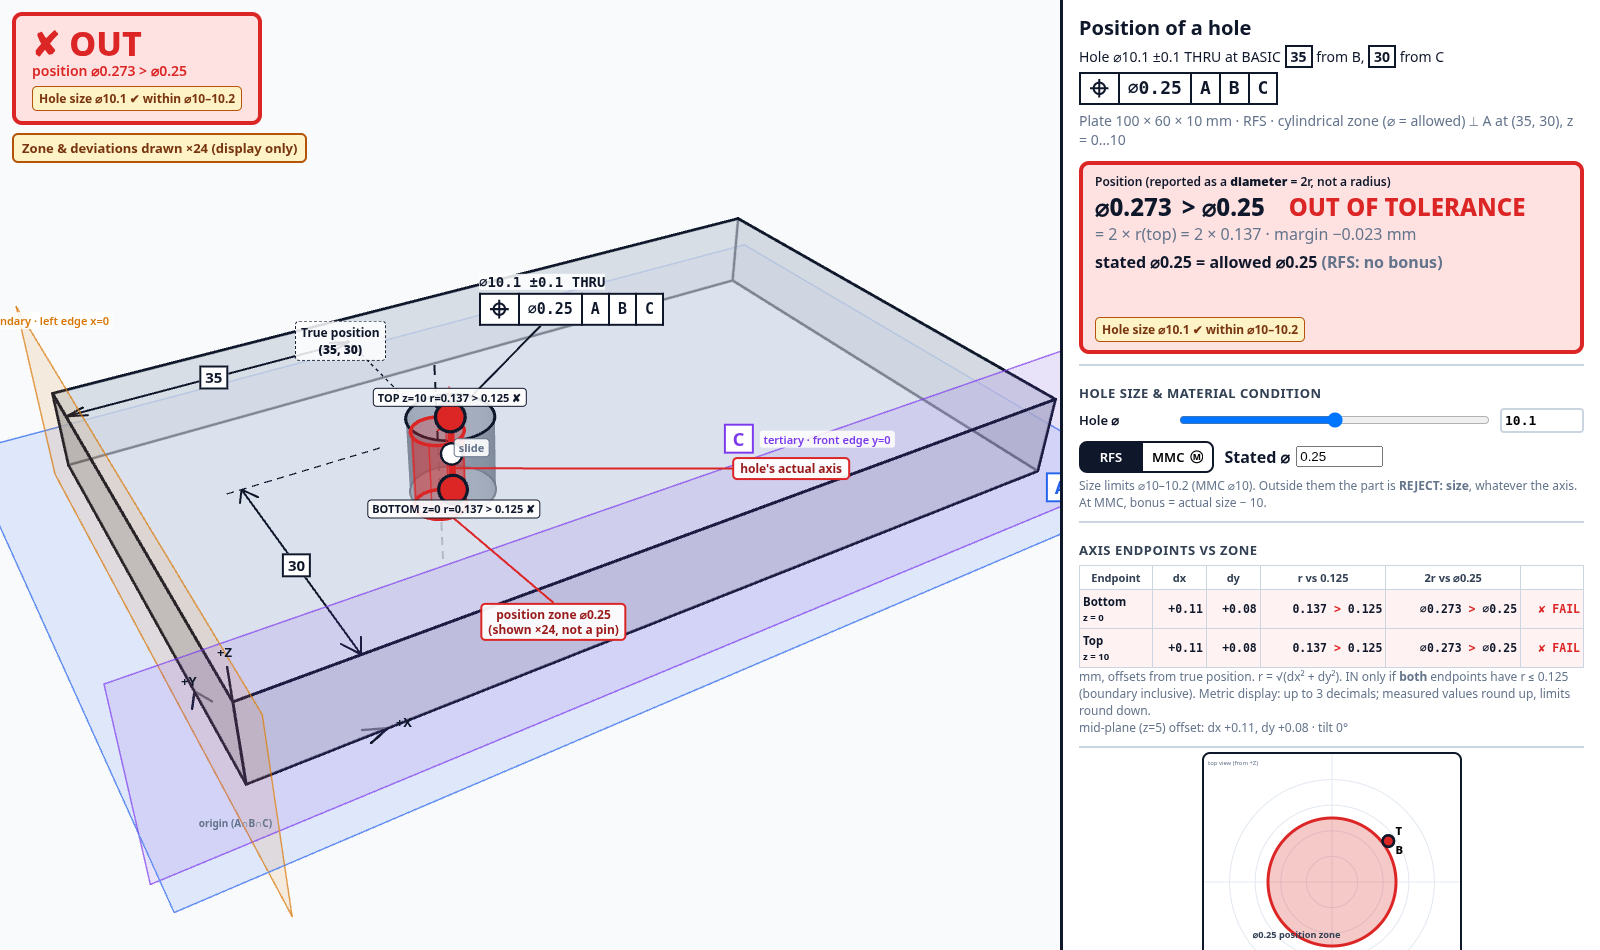
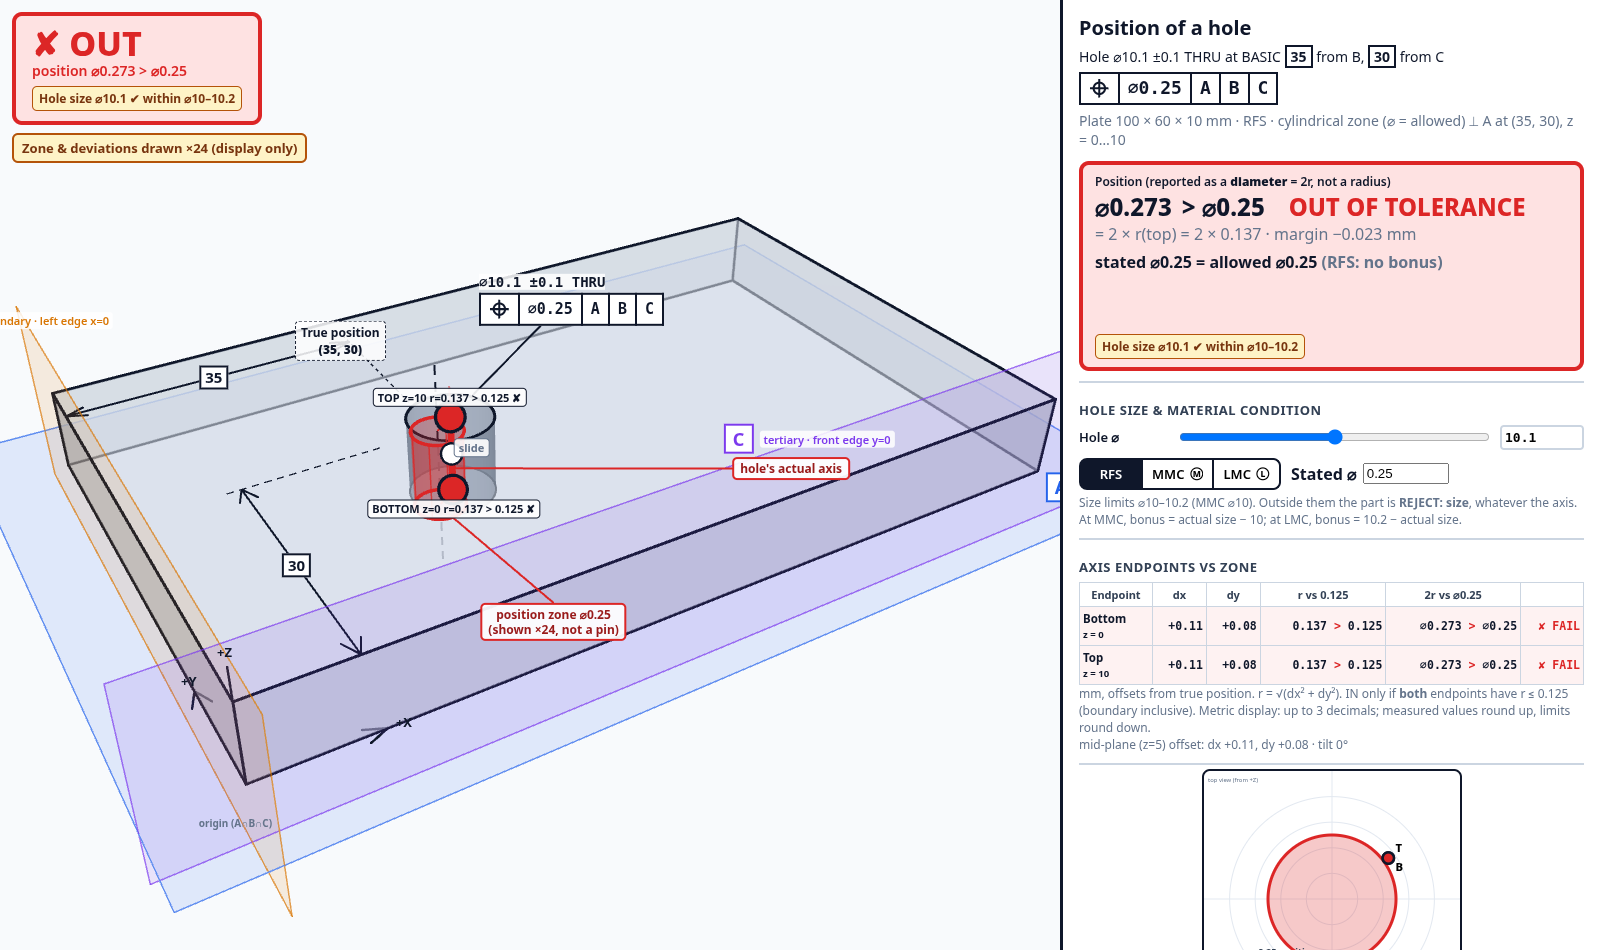
LMC: RFS|MMC|LMC switch, LMC bonus/VC, teaching line, spot-check tests and browser checks

Changed region(s): [[0.6562, 0.3358, 1.0, 0.8242], [0.7812, 0.8547, 0.875, 1.0]]

diff --git a/src/ui.js b/src/ui.js
@@ -2,7 +2,7 @@
 // 2D top-down "zone inset" (also draggable). No Three.js dependency.
 import { SPEC, VIEW, PRESETS } from './config.js';
 import { fmt, fmtLimit, fmtUp, fmtSigned, fmtAgainst, fmtMargin } from './format.js';
-import { fcfHTML, fmtNote, MMC_SYM } from './fcf.js';
+import { fcfHTML, fmtNote, MMC_SYM, LMC_SYM, modSym } from './fcf.js';
 
 const SIZE_LIMITS = `⌀${fmt(SPEC.hole.mmc)}–${fmt(SPEC.hole.lmc)}`;
 /** Size note shown next to every verdict (same length IN / REJECT, so no layout jump). */
@@ -11,6 +11,8 @@ export const sizeNote = (size) => size.sizeOk
   : `Hole size ⌀${fmt(size.actualSize)} ✘ outside ${SIZE_LIMITS}`;
 export const STATUS = { IN: 'IN TOLERANCE', OUT: 'OUT OF TOLERANCE', REJECT_SIZE: 'REJECT: size', INVALID_TOL: 'INVALID: ⌀0 at RFS' };
 /** Shown when a stated ⌀0 is refused at RFS (Sally). */
+/** Teaching line shown (small) at MMC and LMC. */
+export const TEACH = 'MMC protects assembly, LMC protects material.';
 export const ZERO_REASON = '⌀0 is only meaningful at MMC, where bonus supplies the tolerance.';
 const BADGE = { IN: '✔ IN', OUT: '✘ OUT', REJECT_SIZE: '✘ REJECT: size', INVALID_TOL: '✘ INVALID' };
 const SVGNS = 'http://www.w3.org/2000/svg';
@@ -48,7 +50,7 @@ export function createUI(root, { onChange, onPreset, onMagnification, onXray, on
   const msg = (t) => { $('#mc-msg').textContent = t; };
   $('#r-size').addEventListener('input', (e) => onSize(Number(e.target.value)));
   $('#n-size').addEventListener('change', (e) => { const v = Number(e.target.value); if (Number.isFinite(v)) onSize(v); });
-  for (const m of ['RFS', 'MMC']) {
+  for (const m of ['RFS', 'MMC', 'LMC']) {
     $(`#mod-${m.toLowerCase()}`).addEventListener('click', () => {
       if (onModifier(m) === false) msg(ZERO_REASON);
       else msg('');
@@ -79,22 +81,24 @@ export function createUI(root, { onChange, onPreset, onMagnification, onXray, on
     if (document.activeElement !== $('#n-size')) $('#n-size').value = fmt(state.size);
     lastStated = fmt(state.stated);
     if (document.activeElement !== $('#n-stated')) $('#n-stated').value = lastStated;
-    for (const m of ['RFS', 'MMC']) $(`#mod-${m.toLowerCase()}`).setAttribute('aria-pressed', String(state.modifier === m));
+    for (const m of ['RFS', 'MMC', 'LMC']) $(`#mod-${m.toLowerCase()}`).setAttribute('aria-pressed', String(state.modifier === m));
     const TOL = res.tolerance; // allowed (stated + bonus)
     const R = res.radius;
     const sz = res.size;
     $('#spec-fcf').innerHTML = fcfHTML(state, 'fcf big');
     $('#spec-zone').textContent = `${state.modifier} · cylindrical zone (⌀ = allowed)`;
     const rej = res.verdict === 'REJECT_SIZE';
-    $('#tol-line').innerHTML = state.modifier === 'MMC' && rej
+    const bon = state.modifier !== 'RFS';
+    $('#tol-line').innerHTML = bon && rej
       ? `stated ⌀${fmt(sz.stated)} + bonus n/a <span class="muted">(size rejected)</span>`
-      : state.modifier === 'MMC'
+      : bon
       ? `stated ⌀${fmt(sz.stated)} + bonus ⌀${fmtLimit(sz.bonus)} = allowed ⌀${fmtLimit(sz.allowed)}`
       : `stated ⌀${fmt(sz.stated)} = allowed ⌀${fmtLimit(sz.allowed)} <span class="muted">(RFS: no bonus)</span>`;
-    $('#bonus-detail').textContent = state.modifier === 'MMC' ? (rej ? `no bonus: hole ⌀${fmt(sz.actualSize)} is outside ${SIZE_LIMITS}` : `bonus = actual ⌀${fmt(sz.actualSize)} − MMC ⌀${fmt(SPEC.hole.mmc)}`) : '\u00a0'; // keep the line's height at RFS (no jump)
-    $('#vc-line').textContent = state.modifier === 'MMC' ? `virtual condition ⌀${fmtNote(sz.virtualCondition)}` : '\u00a0';
-    $('#vc-line').style.visibility = state.modifier === 'MMC' ? 'visible' : 'hidden';
-    $('#bonus-detail').style.visibility = state.modifier === 'MMC' ? 'visible' : 'hidden';
+    $('#bonus-detail').textContent = bon ? (rej ? `no bonus: hole ⌀${fmt(sz.actualSize)} is outside ${SIZE_LIMITS}` : state.modifier === 'LMC' ? `bonus = LMC ⌀${fmt(SPEC.hole.lmc)} − actual ⌀${fmt(sz.actualSize)}` : `bonus = actual ⌀${fmt(sz.actualSize)} − MMC ⌀${fmt(SPEC.hole.mmc)}`) : '\u00a0'; // keep the line's height at RFS (no jump)
+    $('#vc-line').textContent = bon ? `${state.modifier === 'LMC' ? 'LMC ' : ''}virtual condition ⌀${fmtNote(sz.virtualCondition)}` : '\u00a0';
+    $('#vc-line').style.visibility = bon ? 'visible' : 'hidden';
+    $('#bonus-detail').style.visibility = bon ? 'visible' : 'hidden';
+    $('#teach-line').style.visibility = bon ? 'visible' : 'hidden';
     $('#th-r').textContent = `r vs ${fmtLimit(R)}`;
     $('#th-d').textContent = `2r vs ⌀${fmtLimit(TOL)}`;
     $('#rule-note').innerHTML = `mm, offsets from true position. r = √(dx² + dy²). IN only if <b>both</b> endpoints have r ≤ ${fmtLimit(R)} (boundary inclusive). Metric display: up to 3 decimals; measured values round up, limits round down.`;
@@ -129,8 +133,8 @@ export function createUI(root, { onChange, onPreset, onMagnification, onXray, on
     const badge = document.getElementById('status-badge');
     badge.className = `status-badge ${res.accept ? 'pass' : 'fail'}`;
     const small = res.verdict === 'REJECT_SIZE' ? `hole ⌀${fmt(sz.actualSize)} outside ${SIZE_LIMITS}`
-      : res.verdict === 'INVALID_TOL' ? 'stated ⌀0 is only valid at MMC'
-      : `position ⌀${posShown} ${res.inTolerance ? '≤' : '>'} ⌀${fmtLimit(TOL)}${state.modifier === 'MMC' ? ` ${MMC_SYM}` : ''}`;
+      : res.verdict === 'INVALID_TOL' ? 'stated ⌀0 needs MMC or LMC'
+      : `position ⌀${posShown} ${res.inTolerance ? '≤' : '>'} ⌀${fmtLimit(TOL)}${bon ? ` ${modSym(state.modifier)}` : ''}`;
     badge.innerHTML = `${BADGE[res.verdict]}<small>${small}</small><span class="size-note">${sizeNote(sz)}</span>`;
     document.getElementById('mag-badge').textContent = `Zone & deviations drawn ×${state.magnification} (display only)`;
     inset.render(state, res);
@@ -253,6 +257,7 @@ function template() {
     <div id="tol-line" class="tol-line"></div>
     <div id="bonus-detail" class="muted small"></div>
     <div id="vc-line" class="vc-line"></div>
+    <div id="teach-line" class="muted small teach">${TEACH}</div>
     <div class="size-note"></div>
   </section>
 
@@ -260,11 +265,11 @@ function template() {
     <h2>Hole size &amp; material condition</h2>
     <label class="ctl"><span>Hole ⌀</span><input type="range" id="r-size" min="${S.min}" max="${S.max}" step="${S.step}"/><input type="number" id="n-size" min="${S.min}" max="${S.max}" step="0.001"/></label>
     <div class="mc-row">
-      <span class="seg" role="group" aria-label="Material condition"><button id="mod-rfs" type="button" aria-pressed="true">RFS</button><button id="mod-mmc" type="button" aria-pressed="false">MMC ${MMC_SYM}</button></span>
+      <span class="seg" role="group" aria-label="Material condition"><button id="mod-rfs" type="button" aria-pressed="true">RFS</button><button id="mod-mmc" type="button" aria-pressed="false">MMC ${MMC_SYM}</button><button id="mod-lmc" type="button" aria-pressed="false">LMC ${LMC_SYM}</button></span>
       <label class="stated"><span>Stated ⌀</span><input type="number" id="n-stated" min="0" max="1" step="0.001"/></label>
     </div>
     <div id="mc-msg" class="mc-msg" role="status"></div>
-    <div class="muted small">Size limits ${SIZE_LIMITS} (MMC ⌀${fmt(SPEC.hole.mmc)}). Outside them the part is <b>REJECT: size</b>, whatever the axis. At MMC, bonus = actual size − ${fmt(SPEC.hole.mmc)}.</div>
+    <div class="muted small">Size limits ${SIZE_LIMITS} (MMC ⌀${fmt(SPEC.hole.mmc)}). Outside them the part is <b>REJECT: size</b>, whatever the axis. At MMC, bonus = actual size − ${fmt(SPEC.hole.mmc)}; at LMC, bonus = ${fmt(SPEC.hole.lmc)} − actual size.</div>
   </section>
 
   <section>

diff --git a/tests/lmc.test.js b/tests/lmc.test.js
@@ -1,0 +1,75 @@
+import { test } from 'node:test';
+import assert from 'node:assert/strict';
+import { allowedTolerance, evaluatePart } from '../src/tolerance.js';
+import { SPEC } from '../src/config.js';
+import { fcfHTML } from '../src/fcf.js';
+import { TEACH } from '../src/ui.js';
+
+const H = SPEC.hole;
+const tol = (actualSize, stated = 0.25) => allowedTolerance({ stated, modifier: 'LMC', actualSize, mmc: H.mmc, lmc: H.lmc });
+const TP = { x: 35, y: 30 };
+const part = (actualSize, dx, stated = 0.25) => evaluatePart({
+  truePosition: TP, bottom: { x: TP.x + dx, y: TP.y }, top: { x: TP.x + dx, y: TP.y }, thickness: 10,
+  stated, modifier: 'LMC', actualSize, mmc: H.mmc, lmc: H.lmc,
+});
+
+test('LMC edges: 10.20 -> bonus 0, allowed 0.25; 10.00 -> bonus 0.20, allowed 0.45', () => {
+  assert.deepEqual([tol(10.2).bonus, tol(10.2).allowed], [0, 0.25]);
+  assert.deepEqual([tol(10.0).bonus, tol(10.0).allowed], [0.2, 0.45]);
+  assert.deepEqual([tol(10.05).bonus, tol(10.05).allowed], [0.15, 0.4]);
+});
+
+test('LMC bonus rounds down (never overstated)', () => {
+  assert.equal(tol(10.12345).bonus, 0.0765); // 0.07655 -> floor
+  assert.ok(tol(10.12345).bonus <= 10.2 - 10.12345);
+});
+
+test('LMC virtual condition = 10.20 + stated, independent of size', () => {
+  assert.equal(tol(10.05).virtualCondition, 10.45);
+  assert.equal(tol(10.19).virtualCondition, 10.45);
+  assert.equal(tol(10.05, 0.1).virtualCondition, 10.3);
+  assert.equal(tol(10.05, 0).virtualCondition, 10.2);
+});
+
+test('LMC: size rejects like MMC, bonus n/a', () => {
+  for (const s of [9.95, 9.9999, 10.2001, 10.25]) {
+    assert.equal(tol(s).bonus, null, String(s));
+    assert.equal(part(s, 0).verdict, 'REJECT_SIZE');
+  }
+});
+
+test('LMC: stated ⌀0 is valid (bonus supplies tolerance); at 10.20 nothing is allowed', () => {
+  assert.equal(tol(10.1, 0).statedValid, true);
+  assert.equal(tol(10.1, 0).allowed, 0.1);
+  assert.equal(part(10.1, 0.05, 0).verdict, 'IN');
+  assert.equal(part(10.1, 0.051, 0).verdict, 'OUT');
+  assert.equal(part(10.2, 0, 0).verdict, 'IN');
+  assert.equal(part(10.2, 0.001, 0).verdict, 'OUT');
+});
+
+test('LMC in/out boundary at 10.05 (allowed 0.40 -> r 0.20)', () => {
+  assert.equal(part(10.05, 0.2).verdict, 'IN');
+  assert.equal(part(10.05, 0.2001).verdict, 'OUT');
+});
+
+test('FCF shows circled L at LMC, M at MMC, nothing at RFS; teaching line text', () => {
+  assert.match(fcfHTML({ stated: 0.25, modifier: 'LMC' }), /aria-label="LMC"[^]*>L<\/text>/);
+  assert.match(fcfHTML({ stated: 0.25, modifier: 'MMC' }), />M<\/text>/);
+  assert.doesNotMatch(fcfHTML({ stated: 0.25, modifier: 'RFS' }), /<svg class="mmcsym"/);
+  assert.equal(TEACH, 'MMC protects assembly, LMC protects material.');
+});
+
+test("Sally's spot-check table: allowed for RFS / MMC / LMC", () => {
+  const T = { 10.0: [0.25, 0.25, 0.45], 10.1: [0.25, 0.35, 0.35], 10.2: [0.25, 0.45, 0.25] };
+  for (const [s, exp] of Object.entries(T)) {
+    const got = ['RFS', 'MMC', 'LMC'].map((m) => allowedTolerance({ stated: 0.25, modifier: m, actualSize: Number(s), mmc: H.mmc, lmc: H.lmc }).allowed);
+    assert.deepEqual(got, exp, `⌀${s}`);
+  }
+});
+
+test('default VC labels: MMC ⌀9.75, LMC ⌀10.45, unchanged across sizes', () => {
+  for (const s of [10.0, 10.05, 10.1, 10.15, 10.2]) {
+    assert.equal(allowedTolerance({ stated: 0.25, modifier: 'MMC', actualSize: s, mmc: H.mmc, lmc: H.lmc }).virtualCondition, 9.75);
+    assert.equal(tol(s).virtualCondition, 10.45);
+  }
+});

diff --git a/src/tolerance.js b/src/tolerance.js
@@ -118,13 +118,15 @@ const roundUnits = (v) => Math.round(v * UNITS) / UNITS;
  *   comes from bonus).
  * - Virtual condition (hole, MMC) = mmc − stated. It depends only on the
  *   stated tolerance, never on the actual size.
+ * - LMC: bonus = lmc − actualSize (same clamps), allowed = stated + bonus.
+ *   ⌀0 valid as at MMC. LMC virtual condition (hole) = lmc + stated.
  * Bonus is floored to 0.0001 mm (conservative: never overstated).
  * On a size reject the bonus is not applicable: bonus = null and
  * allowed = stated (shown for information only; the verdict is REJECT: size).
  *
  * @param {object} p
  * @param {number} p.stated     stated position tolerance, diameter (mm), >= 0
- * @param {'RFS'|'MMC'} p.modifier
+ * @param {'RFS'|'MMC'|'LMC'} p.modifier
  * @param {number} p.actualSize actual hole diameter (mm)
  * @param {number} p.mmc        maximum material size of the hole = its smallest size (mm)
  * @param {number} p.lmc        least material size = its largest size (mm)
@@ -133,10 +135,11 @@ export function allowedTolerance({ stated, modifier, actualSize, mmc, lmc }) {
   assertFinite({ stated, actualSize, mmc, lmc });
   if (stated < 0) throw new RangeError('stated tolerance must be >= 0');
   if (lmc < mmc) throw new RangeError('lmc must be >= mmc for a hole');
-  if (modifier !== 'RFS' && modifier !== 'MMC') throw new RangeError(`modifier must be 'RFS' or 'MMC' (got ${modifier})`);
+  if (!['RFS', 'MMC', 'LMC'].includes(modifier)) throw new RangeError(`modifier must be 'RFS', 'MMC' or 'LMC' (got ${modifier})`);
   const sizeOk = actualSize >= mmc - EPS && actualSize <= lmc + EPS;
-  const statedValid = modifier === 'MMC' || stated > EPS;
-  const bonus = modifier !== 'MMC' ? 0 : sizeOk ? floorUnits(Math.min(Math.max(actualSize - mmc, 0), lmc - mmc)) : null;
+  const statedValid = modifier !== 'RFS' || stated > EPS;
+  const raw = modifier === 'MMC' ? actualSize - mmc : lmc - actualSize;
+  const bonus = modifier === 'RFS' ? 0 : sizeOk ? floorUnits(Math.min(Math.max(raw, 0), lmc - mmc)) : null;
   const allowed = floorUnits(stated + (bonus ?? 0));
   return {
     modifier,
@@ -146,7 +149,7 @@ export function allowedTolerance({ stated, modifier, actualSize, mmc, lmc }) {
     statedValid,
     bonus,
     allowed,
-    virtualCondition: modifier === 'MMC' ? roundUnits(mmc - stated) : null,
+    virtualCondition: modifier === 'MMC' ? roundUnits(mmc - stated) : modifier === 'LMC' ? roundUnits(lmc + stated) : null,
   };
 }
 

diff --git a/styles.css b/styles.css
@@ -181,7 +181,9 @@ button:hover { background: #e2e8f0; }
 .mc .seg { display: inline-flex; }
 .mc .seg button { min-width: 64px; border-radius: 0; margin: 0; }
 .mc .seg button:first-child { border-radius: 8px 0 0 8px; }
-.mc .seg button:last-child { border-radius: 0 8px 8px 0; border-left: none; }
+.mc .seg button:last-child { border-radius: 0 8px 8px 0; }
+.mc .seg button + button { border-left: none; }
+.teach { font-style: italic; }
 .mc .seg button[aria-pressed="true"] { background: var(--ink); color: #fff; }
 .mc .stated { display: inline-flex; gap: 6px; align-items: center; font-weight: 700; }
 .mc .stated input { width: 6.5em; }
@@ -198,3 +200,6 @@ button:hover { background: #e2e8f0; }
 #pos-value, #pos-compare { display: inline-block; white-space: nowrap; font-variant-numeric: tabular-nums; }
 #pos-value::after { content: '⌀0.000'; display: block; height: 0; overflow: hidden; visibility: hidden; }
 #pos-compare::after { content: '> ⌀0.000'; display: block; height: 0; overflow: hidden; visibility: hidden; }
+@media (max-width: 700px), (max-height: 500px) {
+  .mc .seg button { min-height: 40px; min-width: 56px; }
+}

diff --git a/src/fcf.js b/src/fcf.js
@@ -11,7 +11,9 @@ const POS_SYM = '<svg class="possym" viewBox="-10 -10 20 20" aria-label="positio
 export const MMC_SYM = '<svg class="mmcsym" viewBox="-10 -10 20 20" role="img" aria-label="MMC"><circle r="8.6" fill="none" stroke="currentColor" stroke-width="1.7"/><text x="0" y="4.3" text-anchor="middle" font-size="12.5" font-weight="800" font-family="system-ui, Arial, sans-serif" fill="currentColor">M</text></svg>';
 
 /** <table class="fcf ..."> ⊕ | ⌀stated [Ⓜ] | A | B | C </table> */
+export const LMC_SYM = MMC_SYM.replace('aria-label="MMC"', 'aria-label="LMC"').replace('>M</text>', '>L</text>');
+export const modSym = (m) => (m === 'MMC' ? MMC_SYM : m === 'LMC' ? LMC_SYM : '');
 export function fcfHTML({ stated, modifier }, cls = 'fcf') {
-  const tol = `⌀${fmtNote(stated)}${modifier === 'MMC' ? MMC_SYM : ''}`;
+  const tol = `⌀${fmtNote(stated)}${modSym(modifier)}`;
   return `<table class="${cls}" data-modifier="${modifier}"><tr><td class="sym">${POS_SYM}</td><td class="tol">${tol}</td>${SPEC.position.datums.map((d) => `<td>${d}</td>`).join('')}</tr></table>`;
 }

diff --git a/src/viewer/scene.js b/src/viewer/scene.js
@@ -310,7 +310,7 @@ function buildStatic() {
 const FCF_ANCHOR = [TP.x + 30, TP.y + 20, H];
 let fcfLabel = null;
 function fcfDrawingHTML(state, result) {
-  const vc = state.modifier === 'MMC' ? `<div class="vc-note">virtual condition ⌀${fmtNote(result ? result.size.virtualCondition : SPEC.hole.mmc - state.stated)}</div>` : '';
+  const vc = state.modifier !== 'RFS' ? `<div class="vc-note">${state.modifier === 'LMC' ? 'LMC ' : ''}virtual condition ⌀${fmtNote(state.modifier === 'LMC' ? SPEC.hole.lmc + state.stated : SPEC.hole.mmc - state.stated)}</div>` : '';
   return `<div class="callout">⌀${SPEC.hole.nominal} ±${SPEC.hole.plusMinus} THRU</div>${fcfHTML(state)}${vc}`;
 }
 

diff --git a/src/main.js b/src/main.js
@@ -16,7 +16,7 @@ const state = {
   xray: true,
   drawing: !isPhone(), // phones start decluttered; "Show drawing" brings it back
   size: SPEC.hole.sizeSlider.default, // actual hole diameter (mm)
-  modifier: SPEC.position.modifier, // 'RFS' | 'MMC'
+  modifier: SPEC.position.modifier, // 'RFS' | 'MMC' | 'LMC'
   stated: SPEC.position.tolerance, // stated position tolerance ⌀ (mm), editable
 };
 const q3 = (v) => Math.round(v * 1e3) / 1e3; // UI inputs in 0.001 mm (metric display)

diff --git a/tests/mmc.test.js b/tests/mmc.test.js
@@ -103,7 +103,7 @@ test('conservative rounding: bonus floored to 0.0001, never overstated', () => {
 });
 
 test('bad inputs throw', () => {
-  assert.throws(() => tol(10.1, 'LMC'));
+  assert.throws(() => tol(10.1, 'LMB'));
   assert.throws(() => tol(10.1, 'MMC', -0.01));
   assert.throws(() => tol(NaN));
 });

diff --git a/ZONE.md b/ZONE.md
@@ -218,7 +218,7 @@ smallest hole), hole LMC ⌀10.20 (the largest).
 | 5 | Readout: "stated ⌀0.25 + bonus ⌀0.0xx = allowed ⌀0.xxx", with the bonus hidden at RFS | MMC: `stated ⌀0.25 + bonus ⌀0.15 = allowed ⌀0.4`. RFS: `stated ⌀0.25 = allowed ⌀0.25 (RFS: no bonus)`. Metric display, ≤ 3 decimals; bonus and allowed round down |
 | 6 | At MMC, a "virtual condition" label | **VC = 10.00 − stated**: ⌀9.75 at the default. It updates when the stated tolerance is edited and **never** changes with hole size. Shown in the panel and under the FCF in the drawing, at MMC only |
 | a | RFS/MMC toggle and an editable stated tolerance (default 0.25) | The MMC math uses the stated value. The Ⓜ symbol (drawn as an SVG, so no missing-glyph risk) appears in the panel FCF, the phone FCF chip and the 3D drawing FCF, at MMC only |
-| b | A stated ⌀0 is valid at MMC (all tolerance from bonus) and invalid at RFS | The math marks ⌀0 at RFS as `INVALID_TOL` (never accepted). The UI **blocks** it: typing 0 at RFS is refused and reverted, and switching to RFS while the stated value is 0 is refused. Both show the reason line *"⌀0 is only meaningful at MMC, where bonus supplies the tolerance."* |
+| b | A stated ⌀0 is valid at MMC (all tolerance from bonus) and invalid at RFS | The math marks ⌀0 at RFS as `INVALID_TOL` (never accepted). The UI **blocks** it: typing 0 at RFS is refused and reverted, and switching to RFS while the stated value is 0 is refused. Both show the reason line (Sally's exact wording; ⌀0 is equally valid at LMC, see §9) *"⌀0 is only meaningful at MMC, where bonus supplies the tolerance."* |
 | c | On REJECT: size, the readout shows "bonus n/a", with no bonus amount | `bonus = null` (n/a) when the size is outside the limits, so `allowed` falls back to the stated value (for information only). MMC readout: `stated ⌀0.25 + bonus n/a (size rejected)` |
 | d | On REJECT: size, the zone and handles are neutral gray, with the position number kept | The zone, actual axis and its label, TOP/BOTTOM handles, endpoint rows and inset all turn neutral gray (#64748b), with no ✔/✘. The reported position (rounded up) stays in the readout, marked "(info)", and the handle tags show r "(size rejected)" |
 
@@ -258,3 +258,29 @@ bonus that shows as 0.123 and an allowed tolerance that shows as 0.373
   no amount (rule c).
 - ✅ **Colours on REJECT: size** (Sally): neutral gray, with the position number
   kept for information (rule d).
+
+## 9. LMC (least material condition), Sally's rules
+
+The modifier control is a three-way segmented switch, **RFS | MMC | LMC**,
+defaulting to RFS. Each segment is at least 40 px on phones. The FCF (panel,
+phone chip and 3D drawing) shows Ⓛ at LMC. Tests: `tests/lmc.test.js`.
+
+| # | Rule | Implementation |
+|---|---|---|
+| 1 | bonus = 10.20 − actual size | `bonus = clamp(10.20 − size, 0, 10.20 − 10.00)`, **floored** like the MMC bonus |
+| 2 | allowed = stated + bonus: 0.25 at ⌀10.20, 0.45 at ⌀10.00 | Same `allowed` path as MMC, so the zone, inset and labels all follow it |
+| 3 | A fixed label "LMC virtual condition ⌀(10.20 + stated)", ⌀10.45 at the default | `virtualCondition = lmc + stated`. It follows the stated value and **never** changes with size. Shown in the panel and under the drawing FCF |
+| 4 | Size reject, ⌀0 handling and gray zone work as at MMC, and the bonus rounds down | REJECT: size gives bonus n/a, a gray zone and the position kept. A stated ⌀0 is valid at LMC (and MMC) and blocked at RFS |
+| — | Teaching line | *"MMC protects assembly, LMC protects material."* appears in small italics under the VC line at MMC and LMC, and is hidden at RFS |
+
+### Sally's spot-check table (stated ⌀0.25; unit-tested and browser-checked)
+
+| Actual hole | RFS allowed | MMC allowed | LMC allowed |
+|---|---|---|---|
+| ⌀10.00 | 0.25 | 0.25 | 0.45 |
+| ⌀10.10 | 0.25 | 0.35 | 0.35 |
+| ⌀10.20 | 0.25 | 0.45 | 0.25 |
+
+At the default tolerance, the VC labels read **⌀9.75 at MMC** and **⌀10.45 at LMC**.
+They stay unchanged while the size slider moves from ⌀10.00 to ⌀10.22 (checked
+in the panel and in the drawing). LMC ⌀10.05 gives bonus 0.15 and allowed 0.4.

diff --git a/README.md b/README.md
@@ -64,7 +64,7 @@ Chrome at `/usr/bin/google-chrome` (override with `CHROME=/path`).
   RFS). Next to the verdict, in the side panel and the top-left badge, is the
   size note *"Hole size ⌀10.1 ✔ within ⌀10–10.2"*.
 - **Hole size & material condition** (panel): an actual-size slider (⌀9.95–10.25)
-  with a number box, an RFS / MMC toggle and the editable stated tolerance.
+  with a number box, an RFS | MMC | LMC segmented switch (LMC: bonus = 10.20 − size, VC = 10.20 + stated, see ZONE.md §9) and the editable stated tolerance.
   A size outside ⌀10–10.2 gives **REJECT: size**. The readout then shows
   *bonus n/a*, and the zone, axis and handles turn neutral gray, with the
   position number kept for information. At MMC the readout
